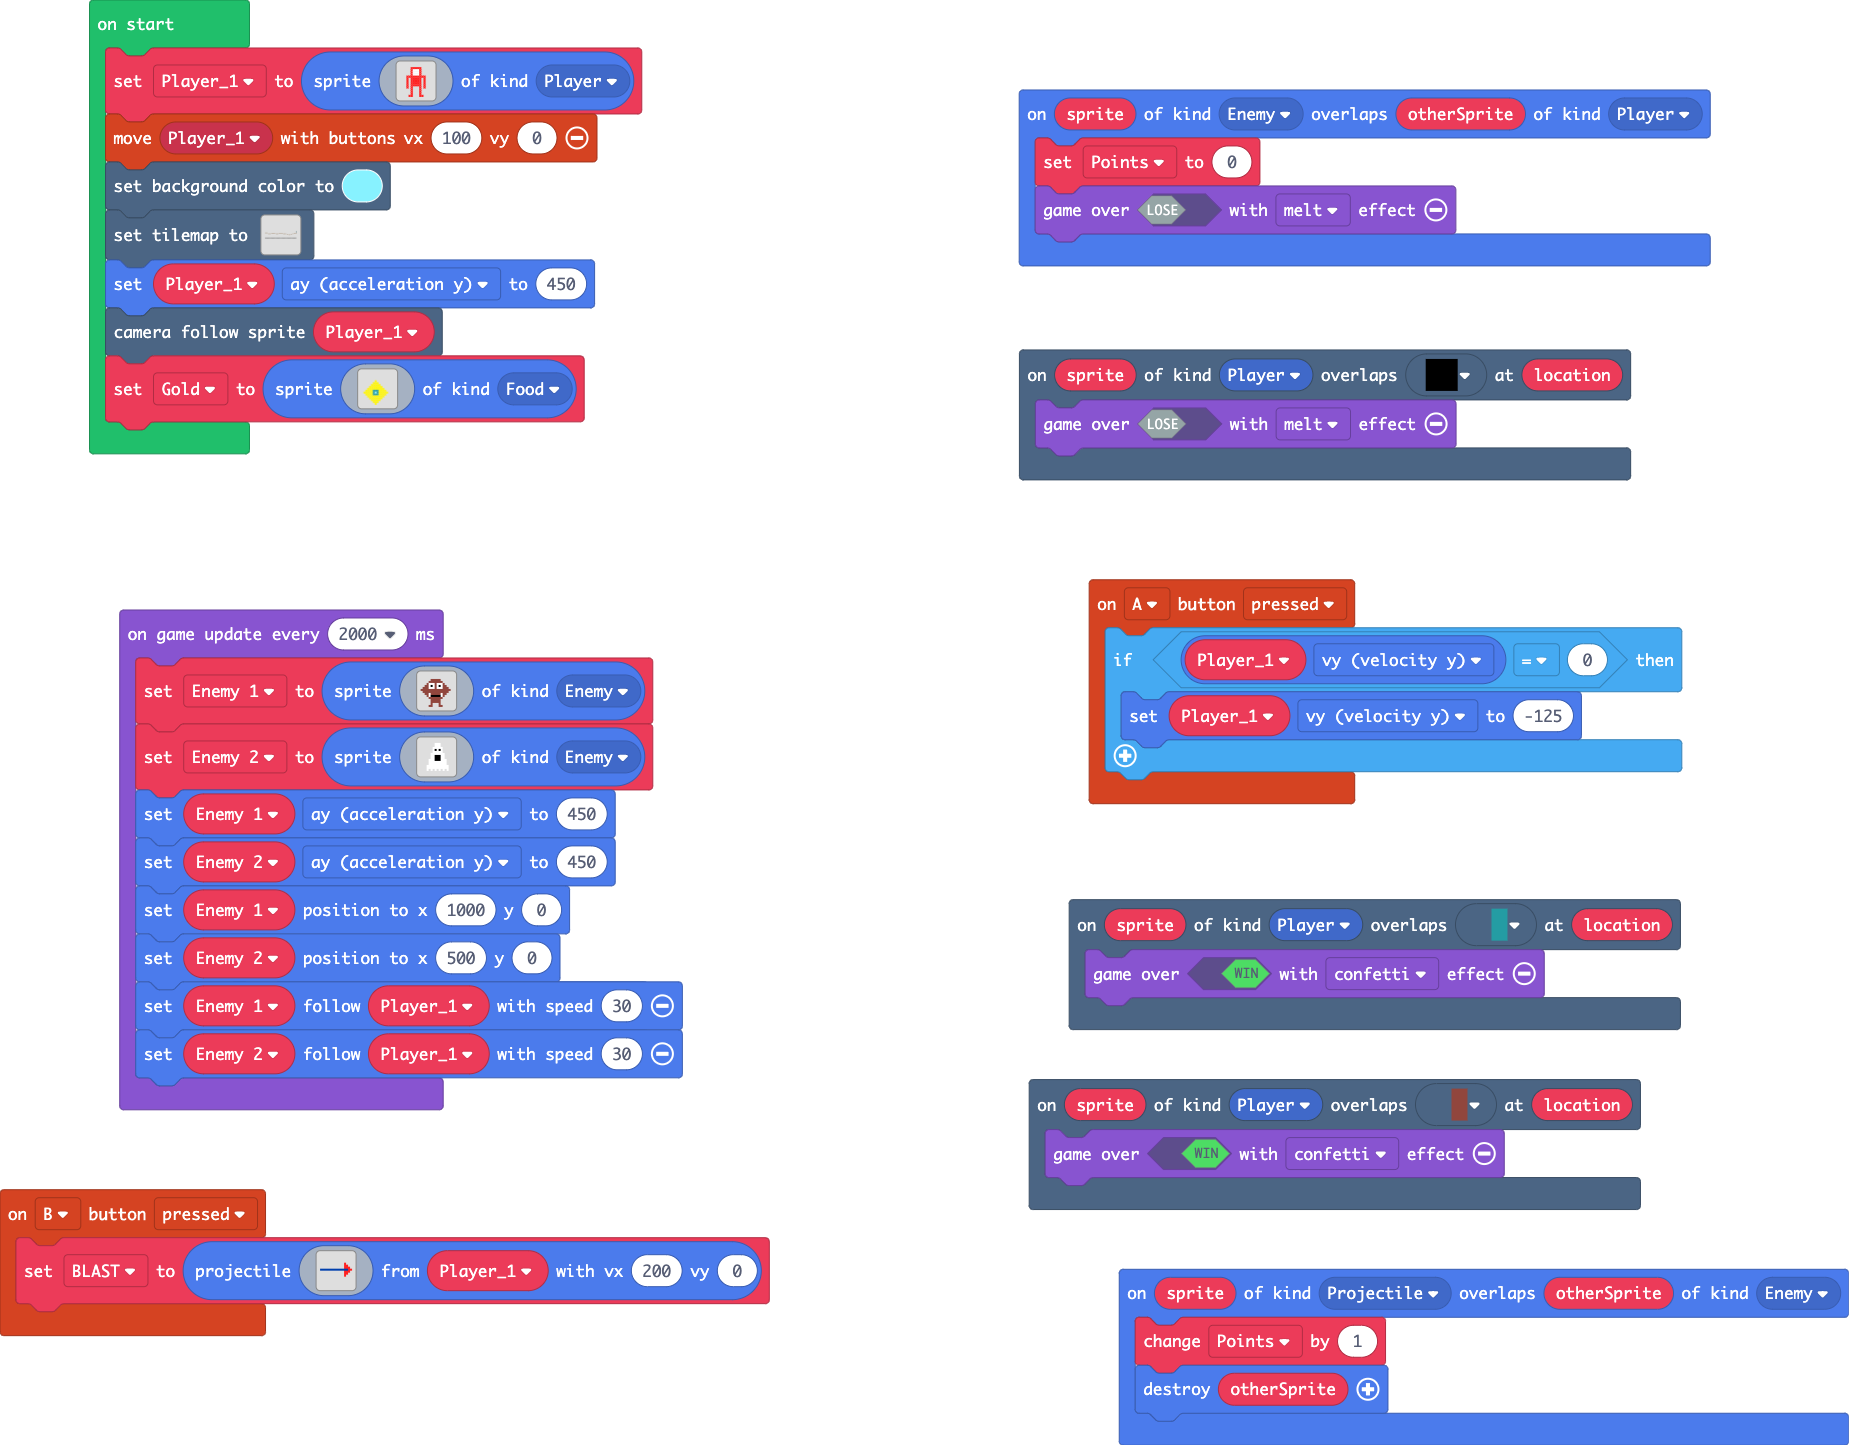
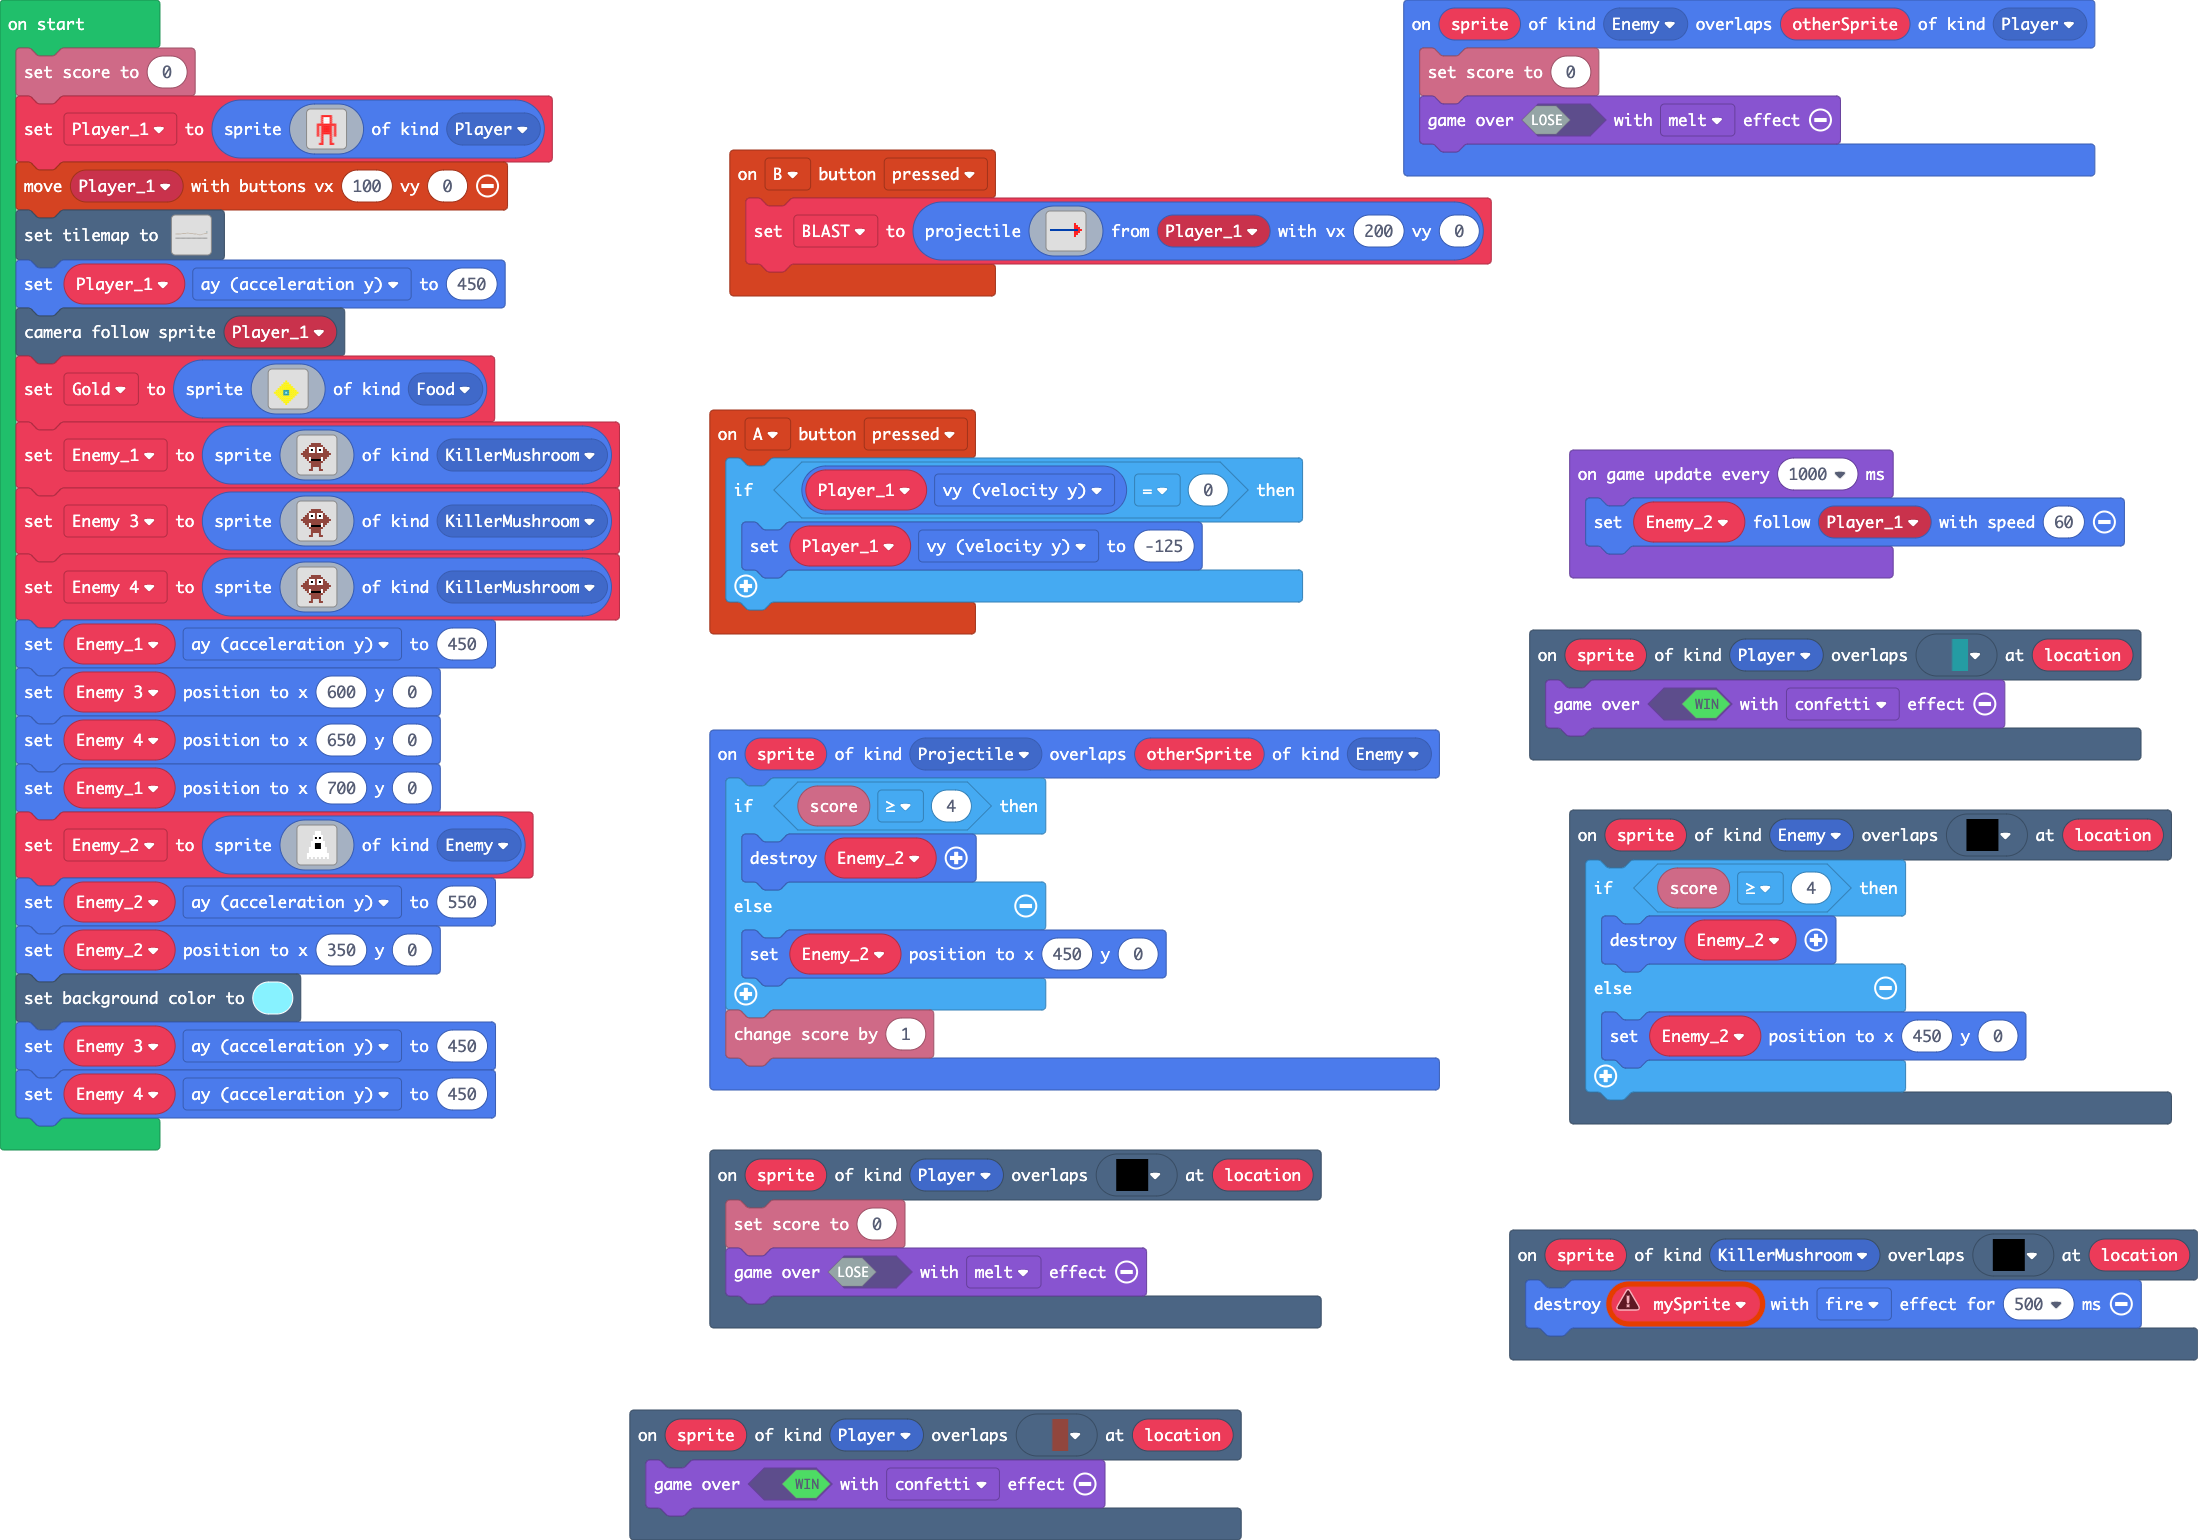
I changed the existing enemies and made a new enemy, as well as fixing some issues

diff --git a/main.ts b/main.ts
@@ -1,3 +1,6 @@
+namespace SpriteKind {
+    export const KillerMushroom = SpriteKind.create()
+}
 namespace myTiles {
     //% blockIdentity=images._tile
     export const tile0 = img`
@@ -247,6 +250,10 @@ f f f f f f f f f f f f f f f f
 6 6 6 6 6 6 6 6 6 6 6 6 6 6 6 6 
 `
 }
+scene.onOverlapTile(SpriteKind.KillerMushroom, myTiles.tile6, function (sprite, location) {
+    let mySprite: Sprite = null
+    mySprite.destroy(effects.fire, 500)
+})
 controller.B.onEvent(ControllerButtonEvent.Pressed, function () {
     BLAST = sprites.createProjectileFromSprite(img`
 . . . . . . . . . . . . . . . . 
@@ -268,19 +275,31 @@ controller.B.onEvent(ControllerButtonEvent.Pressed, function () {
 `, Player_1, 200, 0)
 })
 scene.onOverlapTile(SpriteKind.Player, myTiles.tile6, function (sprite, location) {
+    info.setScore(0)
     game.over(false, effects.melt)
 })
 sprites.onOverlap(SpriteKind.Enemy, SpriteKind.Player, function (sprite, otherSprite) {
-    Points = 0
+    info.setScore(0)
     game.over(false, effects.melt)
 })
 sprites.onOverlap(SpriteKind.Projectile, SpriteKind.Enemy, function (sprite, otherSprite) {
-    Points += 1
-    otherSprite.destroy()
+    if (info.score() >= 4) {
+        Enemy_2.destroy()
+    } else {
+        Enemy_2.setPosition(450, 0)
+    }
+    info.changeScoreBy(1)
 })
 controller.A.onEvent(ControllerButtonEvent.Pressed, function () {
     if (Player_1.vy == 0) {
         Player_1.vy = -125
+    }
+})
+scene.onOverlapTile(SpriteKind.Enemy, myTiles.tile6, function (sprite, location) {
+    if (info.score() >= 4) {
+        Enemy_2.destroy()
+    } else {
+        Enemy_2.setPosition(450, 0)
     }
 })
 scene.onOverlapTile(SpriteKind.Player, myTiles.tile11, function (sprite, location) {
@@ -289,11 +308,10 @@ scene.onOverlapTile(SpriteKind.Player, myTiles.tile11, function (sprite, locatio
 scene.onOverlapTile(SpriteKind.Player, myTiles.tile10, function (sprite, location) {
     game.over(true, effects.confetti)
 })
-let Enemy_2: Sprite = null
-let Enemy_1: Sprite = null
-let Points = 0
 let BLAST: Sprite = null
+let Enemy_2: Sprite = null
 let Player_1: Sprite = null
+info.setScore(0)
 Player_1 = sprites.create(img`
 . . . . . . . . . . . . . . . 
 . . . . . 2 2 2 2 2 . . . . . 
@@ -312,17 +330,16 @@ Player_1 = sprites.create(img`
 . . . . 2 2 . . . 2 2 . . . . 
 `, SpriteKind.Player)
 controller.moveSprite(Player_1, 100, 0)
-scene.setBackgroundColor(9)
 tiles.setTilemap(tiles.createTilemap(
[2 lines of base64/hex data omitted]
             img`
 . . . . . . . . . . . . . . . . . . . . . . . . . . . . . . . . . . . . . . . . . . . . . . . . . . . . . . . . . . . . . . . . . . . . . . 
 . . . . . . . . . . . . . . . . . . . . . . . . . . . . . . . . . . . . . . . . . . . . . . . . . . . . . . . . . . . . . . . . . . . . . . 
 . . . . . . . . . . . . . . . . . . . . . . . . . . . . . . . . . . . . . . . . . . . . . . . . . . . . . . . . . . . . . . . . . . . . . . 
 . . . . . . . . . . . . . . . . . . . . . . . . . . . . . . . . . . . . . . . . . . . . . . . . . . . . . . . . . . . . . . . . . . . . . . 
-2 2 2 2 2 2 . . . . . . . . . . . . . . . . . . . . . . . . . . . . . . . . . . . . . . . . . . . . . . . . . . . . . . . . . . . . . . . . 
-. . . . . . . . . . . . . . 2 2 2 2 2 2 2 2 2 . . . . . . . 2 2 2 2 2 2 2 2 2 . . . . . . . . . . . . . . . . . . . . . . . . 2 2 2 2 2 2 . 
-. . . . . . . 2 2 2 2 2 2 . . . . . . . . . . . 2 2 2 2 2 . . . . . . . . . . . 2 2 2 2 2 2 2 . . . . . . . . . . . . . 2 2 . . . . . . . . 
+. . . . . . . . . . . . . . . . . . . . . . . . . 2 2 2 2 . . . . . . . . . . . . . . . . . . . . . . . . . . . . . . . . . . . . . . . . . 
+. . . . . . . . . . . . . . 2 2 2 2 2 2 2 2 2 2 . . . . . . 2 2 2 2 2 2 2 2 2 . . . . . . . . . . . . . . . . . . . . . . . . 2 2 2 2 2 2 . 
+2 2 2 2 2 2 2 2 2 2 2 2 2 . . . . . . . . . . . . . . . . . . . . . . . . . . . 2 2 2 2 2 2 2 . . . . . . . . . . . . . 2 2 . . . . . . . . 
 . . . . . . . . . . . . . . . . . . . . . . . . . . . . . . . . . . . . . . . . . . . . . . . . 2 2 2 . . . . . 2 2 2 . . . . . . . . . . . 
 . . . . . . . . . . . . . . . . . . . . . . . . . . . . . . . . . . . . . . . . . . . . . . . . . . . . 2 2 2 . . . . . . . . . . . . . . . 
 . . . . . . . . . . . . . . . . . . . . . . . . . . . . . . . . . . . . . . . . . . . . . . . . . . . . . . . . . . . . . . . . . . . . . . 
@@ -357,8 +374,7 @@ let Gold = sprites.create(img`
 . . . . . . 5 5 5 . . . . . . . 
 . . . . . . . 5 . . . . . . . . 
 `, SpriteKind.Food)
-game.onUpdateInterval(2000, function () {
-    Enemy_1 = sprites.create(img`
+let Enemy_1 = sprites.create(img`
 . . . . . . . . . . . . . . . . 
 . . . . . . . . . . . . . . . . 
 . . . . . e e e e e . . . . . . 
@@ -375,8 +391,48 @@ e e e e e e e e e e e e e e e .
 . . . . . e e e e e . . . . . . 
 . . . . . e . . . e . . . . . . 
 . . . . e e . . . e e . . . . . 
-`, SpriteKind.Enemy)
-    Enemy_2 = sprites.create(img`
+`, SpriteKind.KillerMushroom)
+let Enemy_3 = sprites.create(img`
+. . . . . . . . . . . . . . . . 
+. . . . . . . . . . . . . . . . 
+. . . . . e e e e e . . . . . . 
+. . . . e e e e e e e . . . . . 
+. . . e 1 1 1 e 1 1 1 e . . . . 
+. . e e 1 f 1 e 1 f 1 e e . . . 
+. e e e 1 1 1 e 1 1 1 e e e . . 
+e e e e e e e e e e e e e e e . 
+. e e e e e e e e e e e e e . . 
+. . e e 1 e e e e e 1 e e . . . 
+. . . e 1 f f f f f 1 e . . . . 
+. . . . e e e e e e e . . . . . 
+. . . . . e e e e e . . . . . . 
+. . . . . e e e e e . . . . . . 
+. . . . . e . . . e . . . . . . 
+. . . . e e . . . e e . . . . . 
+`, SpriteKind.KillerMushroom)
+let Enemy_4 = sprites.create(img`
+. . . . . . . . . . . . . . . . 
+. . . . . . . . . . . . . . . . 
+. . . . . e e e e e . . . . . . 
+. . . . e e e e e e e . . . . . 
+. . . e 1 1 1 e 1 1 1 e . . . . 
+. . e e 1 f 1 e 1 f 1 e e . . . 
+. e e e 1 1 1 e 1 1 1 e e e . . 
+e e e e e e e e e e e e e e e . 
+. e e e e e e e e e e e e e . . 
+. . e e 1 e e e e e 1 e e . . . 
+. . . e 1 f f f f f 1 e . . . . 
+. . . . e e e e e e e . . . . . 
+. . . . . e e e e e . . . . . . 
+. . . . . e e e e e . . . . . . 
+. . . . . e . . . e . . . . . . 
+. . . . e e . . . e e . . . . . 
+`, SpriteKind.KillerMushroom)
+Enemy_1.ay = 450
+Enemy_3.setPosition(600, 0)
+Enemy_4.setPosition(650, 0)
+Enemy_1.setPosition(700, 0)
+Enemy_2 = sprites.create(img`
 . . . . . . . . . . . . . . . . 
 . . . . . . . 1 1 1 . . . . . . 
 . . . . . . . 1 1 1 . . . . . . 
@@ -394,10 +450,11 @@ e e e e e e e e e e e e e e e .
 . . . 1 . 1 . 1 . 1 . 1 . 1 . . 
 . . . . . . . . . . . . . . . . 
 `, SpriteKind.Enemy)
-    Enemy_1.ay = 450
-    Enemy_2.ay = 450
-    Enemy_1.setPosition(1000, 0)
-    Enemy_2.setPosition(500, 0)
-    Enemy_1.follow(Player_1, 30)
-    Enemy_2.follow(Player_1, 30)
+Enemy_2.ay = 550
+Enemy_2.setPosition(350, 0)
+scene.setBackgroundColor(9)
+Enemy_3.ay = 450
+Enemy_4.ay = 450
+game.onUpdateInterval(1000, function () {
+    Enemy_2.follow(Player_1, 60)
 })
